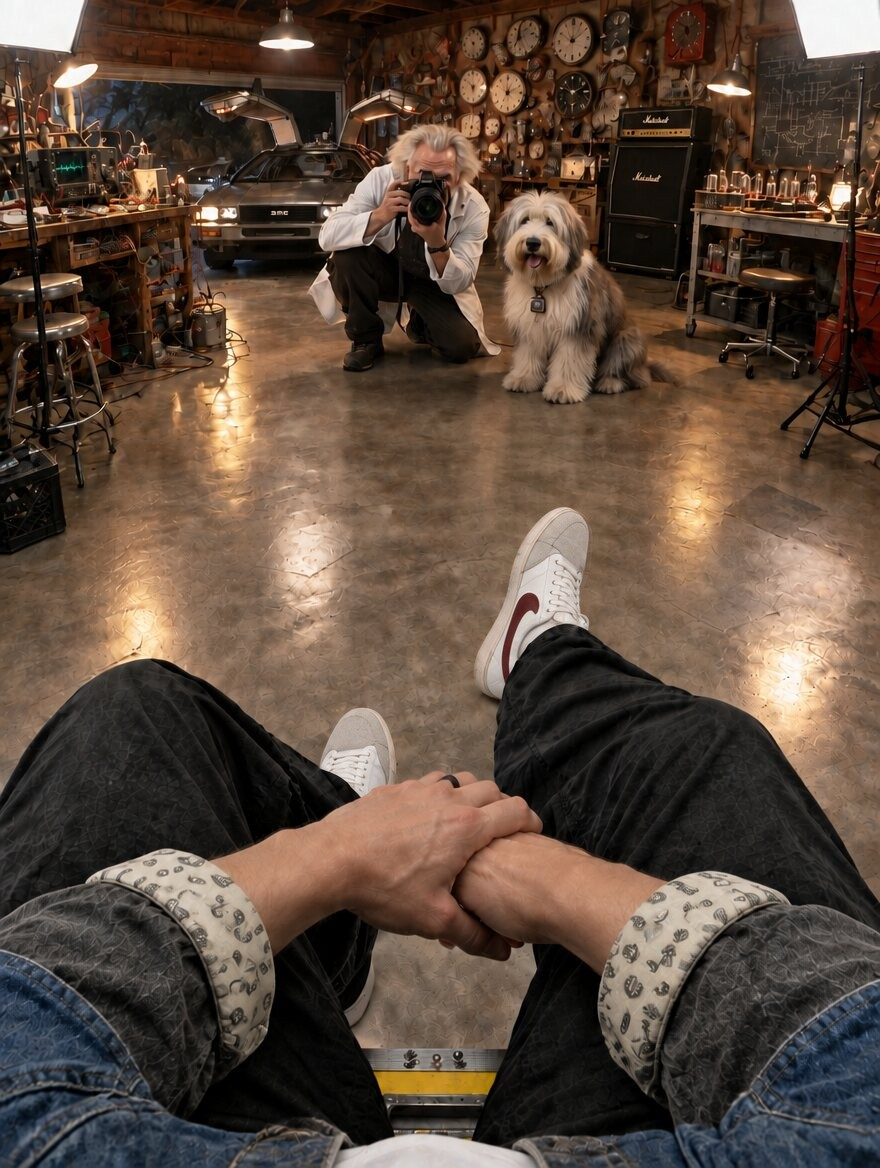
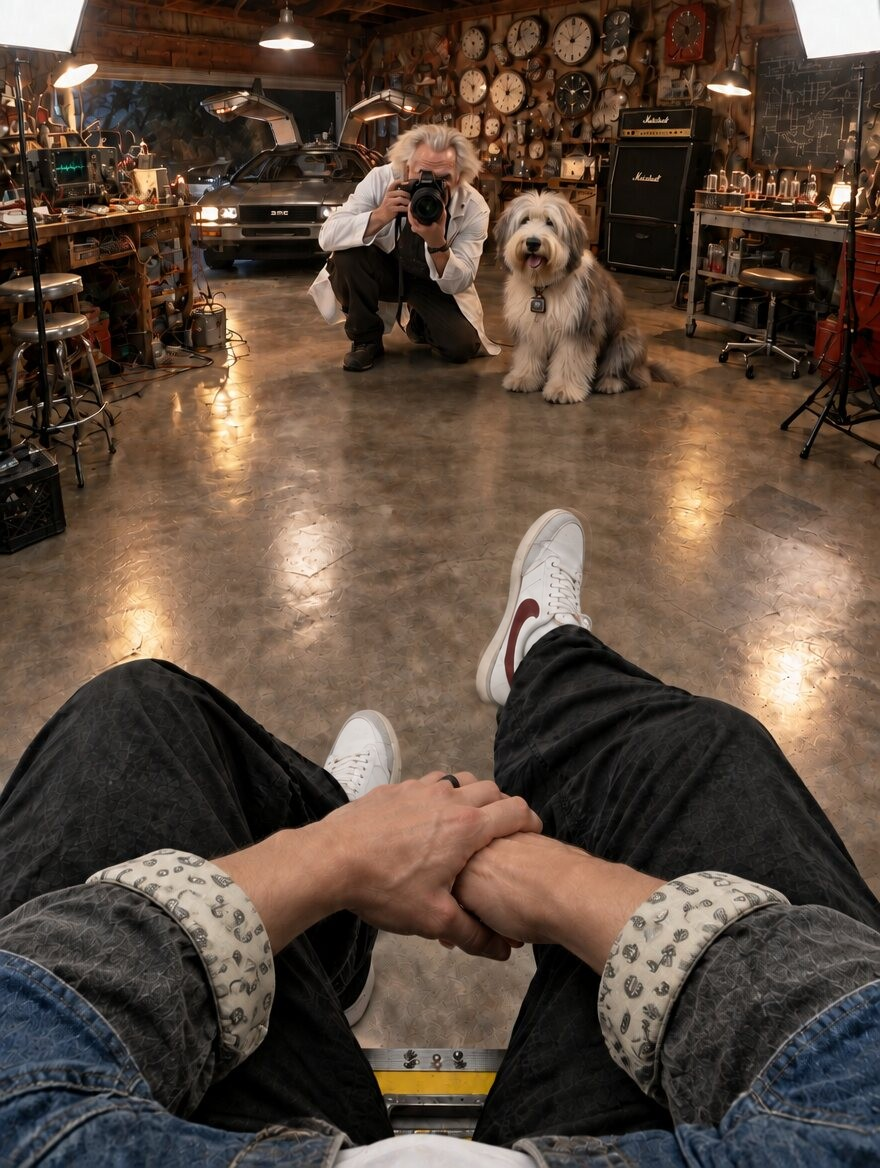
POV: the Bruin's suede is a toe wrap, not a suede toe box
The hero's Bruins have smooth white leather over the toe; the grey
suede is only a low mudguard band wrapping the front tip and tapering
back along the sides above the sole. The glasses-view shoes are
re-rendered from a front-view reference of that toe and composited
back into the original frame (shoes only).

Claude-Session: https://claude.ai/code/session_01W5NmLrmCfpinZRZs12n3aL

Changed region(s): [[0.5216, 0.4315, 0.675, 0.6164], [0.3682, 0.5856, 0.4602, 0.6781]]

diff --git a/index.html b/index.html
@@ -605,7 +605,7 @@
 
 <dialog class="pov" id="pov" aria-label="Point of view from Charlie's Ray-Ban Meta glasses">
   <div class="pov-frame">
-    <img src="assets/pov-meta.jpg" alt="First-person view from Charlie's glasses: his hands clasped over his knees, denim jacket sleeves rolled to the paisley lining, black wide trousers and white Nike Bruins with grey suede toes and maroon swooshes, in Doc Brown's garage lab. A wild-haired man in a white lab coat crouches to photograph him beside a shaggy sheepdog, with walls of clocks, a Marshall amp and a DeLorean, headlights on, in the back.">
+    <img src="assets/pov-meta.jpg" alt="First-person view from Charlie's glasses: his hands clasped over his knees, denim jacket sleeves rolled to the paisley lining, black wide trousers and white leather Nike Bruins with a grey suede toe wrap and maroon swooshes, in Doc Brown's garage lab. A wild-haired man in a white lab coat crouches to photograph him beside a shaggy sheepdog, with walls of clocks, a Marshall amp and a DeLorean, headlights on, in the back.">
     <div class="hud">
       <div class="hud-top">
         <span class="rec"><i></i><span id="rec-time">00:00</span></span>

diff --git a/v5.html b/v5.html
@@ -490,7 +490,7 @@
 
 <dialog class="pov" id="pov" aria-label="Point of view from Charlie's Ray-Ban Meta glasses">
   <div class="pov-frame">
-    <img src="assets/pov-meta.jpg" alt="First-person view from Charlie's glasses: his hands clasped over his knees, denim jacket sleeves rolled to the paisley lining, black wide trousers and white Nike Bruins with grey suede toes and maroon swooshes, in Doc Brown's garage lab. A wild-haired man in a white lab coat crouches to photograph him beside a shaggy sheepdog, with walls of clocks, a Marshall amp and a DeLorean, headlights on, in the back.">
+    <img src="assets/pov-meta.jpg" alt="First-person view from Charlie's glasses: his hands clasped over his knees, denim jacket sleeves rolled to the paisley lining, black wide trousers and white leather Nike Bruins with a grey suede toe wrap and maroon swooshes, in Doc Brown's garage lab. A wild-haired man in a white lab coat crouches to photograph him beside a shaggy sheepdog, with walls of clocks, a Marshall amp and a DeLorean, headlights on, in the back.">
     <div class="hud">
       <div class="hud-top">
         <span class="rec"><i></i><span id="rec-time">00:00</span></span>
